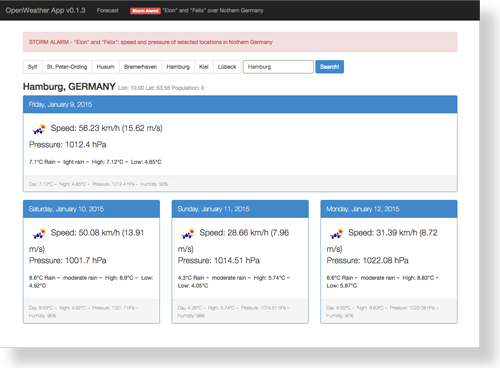
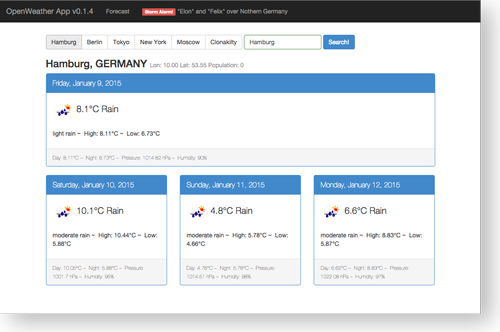
Updated screenshot.

Changed region(s): [[0.0, 0.0, 0.96, 0.9036]]

diff --git a/README.md b/README.md
@@ -8,8 +8,7 @@ I introduced irregular tagging release states - see CHANGELOG for details.
 
 # angular-openweather-app — a weather forecast app written in AngularJS
 
-<img src="app/img/app_screenshot_v_0-1-0.png" alt="OpenWeather App Start Page"/>
-<img src="app/img/app_screenshot_v_0-1-4.png" alt="OpenWeather App Storm Special"/>
+<img src="app/img/app_screenshot_v_0-1-4.png" alt="OpenWeather App"/>
 
 "OpenWeather App" is a small AngularJS project that makes use of the [OpenWeatherMap](http://openweathermap.org/)
 service for fetching and displaying weather data and forecasts based on a given location (city).
